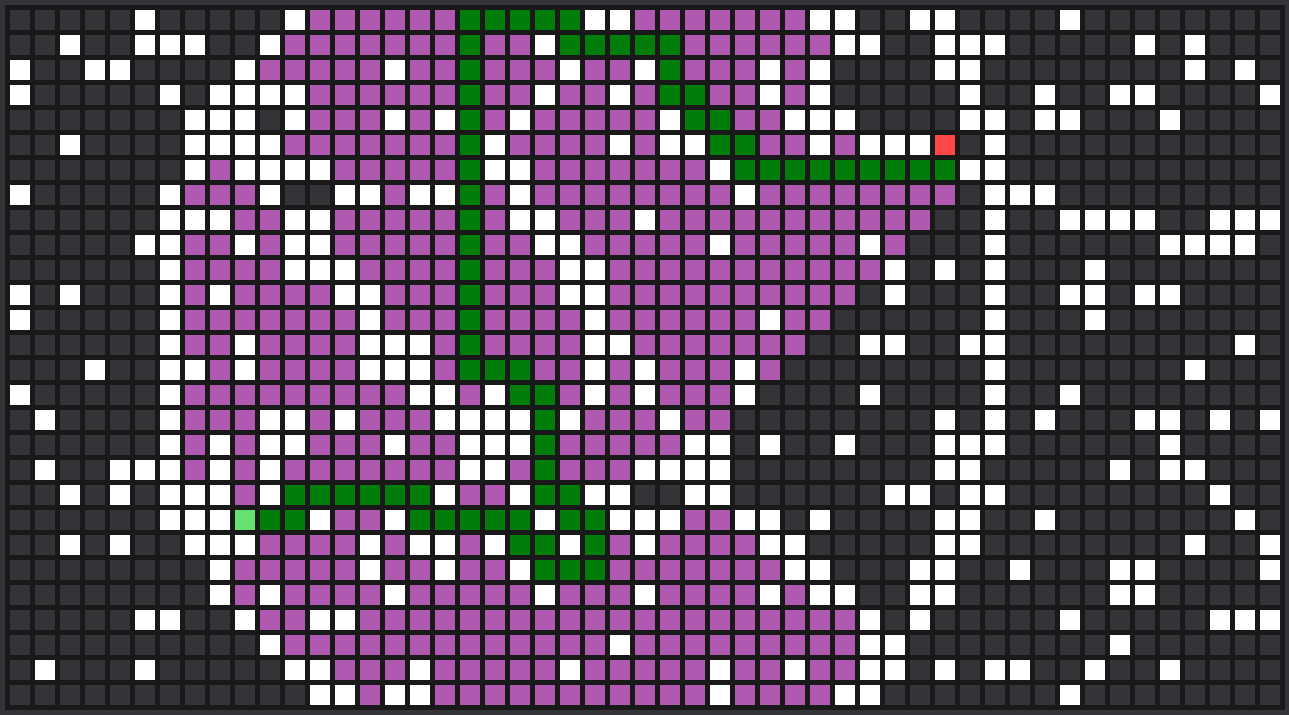
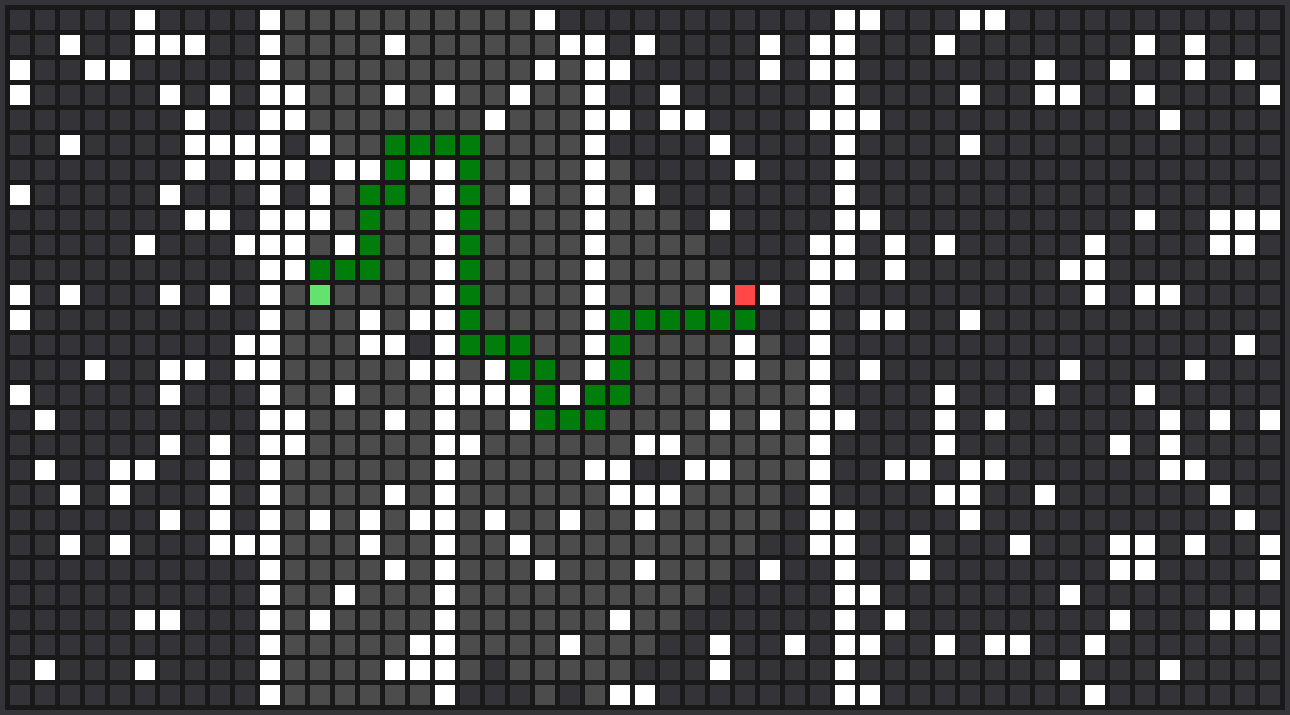
Made the colors less hideous.

diff --git a/src/board/GridPiece.cpp b/src/board/GridPiece.cpp
@@ -28,7 +28,7 @@ void GridPiece::setGridPieceState(GridPieceState state) {
         case GridPieceState::finishSelected: { Rectangle::changeColor(Colors::DARK_RED); break; }
         case GridPieceState::obstacle: { Rectangle::changeColor(Colors::WHITE); break; }
         case GridPieceState::visiting: { Rectangle::changeColor(Colors::LIGHT_PURPLE); break; }
-        case GridPieceState::visited: { Rectangle::changeColor(Colors::PURPLE); break; }
+        case GridPieceState::visited: { Rectangle::changeColor(Colors::LESS_DARK_GREY); break; }
         case GridPieceState::path: { Rectangle::changeColor(Colors::DARK_GREEN); break; }
         case GridPieceState::unVisited: { Rectangle::changeColor(gridColor); break; }
     }

diff --git a/src/gfx/Colors.hpp b/src/gfx/Colors.hpp
@@ -9,6 +9,7 @@ namespace Colors {
     const glm::vec4 BLACK = glm::vec4(0.0f, 0.0f, 0.0f, 1.0f);
     const glm::vec4 DARK_GREY = glm::vec4(0.1f, 0.1f, 0.1f, 1.0f);
     const glm::vec4 LIGHT_GREY = glm::vec4(0.6f, 0.6f, 0.6f, 1.0f);
+    const glm::vec4 LESS_DARK_GREY = glm::vec4(0.3f, 0.3f, 0.3f, 1.0f);
 
     const glm::vec4 LIGHT_PURPLE = glm::vec4(NORMALIZE(242), NORMALIZE(201), NORMALIZE(242), 1.0f);
     const glm::vec4 PURPLE = glm::vec4(NORMALIZE(175), NORMALIZE(90), NORMALIZE(176), 1.0f);
